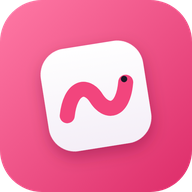
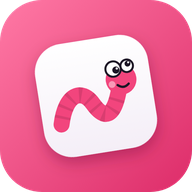
Grappiger wormpje met googly-oogjes
Claude-Session: https://claude.ai/code/session_017q2Yrn6fteMth8g2hT6pfK

Changed region(s): [[0.1562, 0.1562, 0.8438, 0.8438]]

diff --git a/index.html b/index.html
@@ -562,7 +562,20 @@ function aiStep(){
 
 /* ---------- tekenwerk ---------- */
 const PIPS={1:[[20,20]],2:[[12.5,12.5],[27.5,27.5]],3:[[12.5,12.5],[20,20],[27.5,27.5]],4:[[12.5,12.5],[27.5,12.5],[12.5,27.5],[27.5,27.5]],5:[[12.5,12.5],[27.5,12.5],[20,20],[12.5,27.5],[27.5,27.5]]};
-const WORM_FACE='<path d="M8.5 25.5 C 11.5 14.5, 17 13.5, 20 20.5 S 28 28.5, 31.5 16" fill="none" stroke="var(--pink)" stroke-width="5" stroke-linecap="round"/><circle cx="31" cy="15.4" r="1.3" fill="var(--pip)"/>';
+/* De pier: ringetjes op zijn lijf, googly-oogjes die elk een andere kant op kijken, en een glimlach */
+function wormArt(pink,ink){
+  const body='M6.5 28 C 9.5 17.5, 15.5 16.5, 18.5 22.5 S 25 29, 28.5 18.5';
+  return `<path d="${body}" fill="none" stroke="${pink}" stroke-width="5.6" stroke-linecap="round"/>`+
+  `<path d="${body}" fill="none" stroke="#000" stroke-opacity=".1" stroke-width="5.6" stroke-dasharray="0.9 2.7" stroke-dashoffset="-2"/>`+
+  `<circle cx="29.6" cy="15.6" r="5.4" fill="${pink}"/>`+
+  `<circle cx="26.2" cy="16.9" r="1.2" fill="#fff" fill-opacity=".45"/>`+
+  `<circle cx="27.4" cy="11.6" r="2.7" fill="#fff" stroke="${ink}" stroke-width=".7"/>`+
+  `<circle cx="32.3" cy="11.2" r="2.2" fill="#fff" stroke="${ink}" stroke-width=".7"/>`+
+  `<circle cx="28.3" cy="12.1" r="1.25" fill="${ink}"/><circle cx="32.7" cy="10.5" r="1.05" fill="${ink}"/>`+
+  `<circle cx="28.7" cy="11.6" r=".4" fill="#fff"/><circle cx="33" cy="10.1" r=".35" fill="#fff"/>`+
+  `<path d="M28.1 17.4 q 1.9 1.8 3.9 .1" fill="none" stroke="${ink}" stroke-width=".8" stroke-linecap="round"/>`;
+}
+const WORM_FACE=wormArt('var(--pink)','var(--pip)');
 function dieSVG(f){
   const inner=f===6?WORM_FACE:PIPS[f].map(([x,y])=>`<circle cx="${x}" cy="${y}" r="3.5" fill="var(--pip)"/>`).join('');
   return `<svg viewBox="0 0 40 40" aria-hidden="true"><rect x="1" y="1" width="38" height="38" rx="10" fill="var(--die)"/><rect x="1" y="1" width="38" height="38" rx="10" fill="none" stroke="rgba(29,22,38,.08)"/>${inner}</svg>`;
@@ -587,7 +600,7 @@ function miniHTML(n){
   if(n==null) return '<div class="mini empty" aria-hidden="true"></div>';
   return `<div class="mini" aria-hidden="true"><div class="num">${n}</div><div class="worms">${WORM_ICON.repeat(wormsOf(n))}</div></div>`;
 }
-function logoHTML(){return `<h1 class="logo"><svg class="mark" viewBox="0 0 512 512" aria-hidden="true"><defs><linearGradient id="pwLogoBg" x1="0" y1="0" x2="1" y2="1"><stop offset="0" stop-color="#ff79a5"/><stop offset="1" stop-color="#dd2c69"/></linearGradient></defs><rect width="512" height="512" rx="120" fill="url(#pwLogoBg)"/><g transform="rotate(-9 256 256)"><rect x="110" y="110" width="292" height="292" rx="74" fill="#fff"/><path d="M168 298 C 190 220, 236 214, 256 262 S 322 314, 344 230" fill="none" stroke="#f2457d" stroke-width="44" stroke-linecap="round"/><circle cx="341" cy="220" r="10" fill="#1d1626"/></g></svg>Pierenworp</h1>`}
+function logoHTML(){return `<h1 class="logo"><svg class="mark" viewBox="0 0 512 512" aria-hidden="true"><defs><linearGradient id="pwLogoBg" x1="0" y1="0" x2="1" y2="1"><stop offset="0" stop-color="#ff79a5"/><stop offset="1" stop-color="#dd2c69"/></linearGradient></defs><rect width="512" height="512" rx="120" fill="url(#pwLogoBg)"/><g transform="rotate(-9 256 256)"><rect x="96" y="96" width="320" height="320" rx="80" fill="#fff"/><g transform="translate(96 96) scale(8)">${wormArt('#f2457d','#1d1626')}</g></g></svg>Pierenworp</h1>`}
 
 function rulesHTML(){
   const tiles=Array.from({length:16},(_,i)=>({n:21+i,st:'open'}));

diff --git a/sw.js b/sw.js
@@ -1,5 +1,5 @@
 // Pierenworp service worker. Verhoog CACHE bij elke nieuwe versie.
-const CACHE='pierenworp-v9';
+const CACHE='pierenworp-v10';
 const ASSETS=['./','index.html','manifest.webmanifest','icon-192.png','icon-512.png','icon-maskable-512.png','apple-touch-icon.png'];
 
 // Nieuwe versie downloaden, maar wachten tot de speler op 'Vernieuwen' tikt.

diff --git a/README.md b/README.md
@@ -40,6 +40,6 @@ Open daarna http://localhost:8000 in je browser.
 
 ## Een nieuwe versie uitrollen
 
-Verhoog in `sw.js` het versienummer, bijvoorbeeld van `pierenworp-v9` naar `pierenworp-v10`, en zet de bestanden op GitHub.
+Verhoog in `sw.js` het versienummer, bijvoorbeeld van `pierenworp-v10` naar `pierenworp-v11`, en zet de bestanden op GitHub.
 
 Wie de app open heeft, krijgt dan bovenin de melding *Er is een nieuwe versie van Pierenworp*. Een tik op **Vernieuwen** laadt de nieuwe versie meteen; een lopend spel blijft bewaard. De app zoekt naar updates bij het openen en elk half uur.
